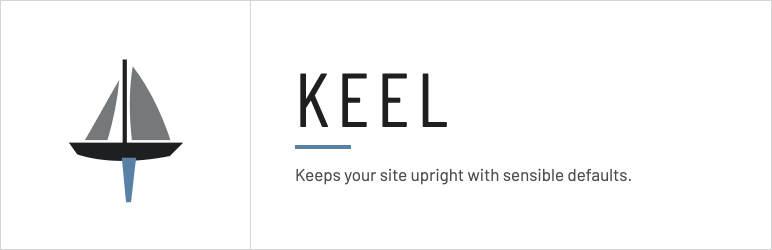
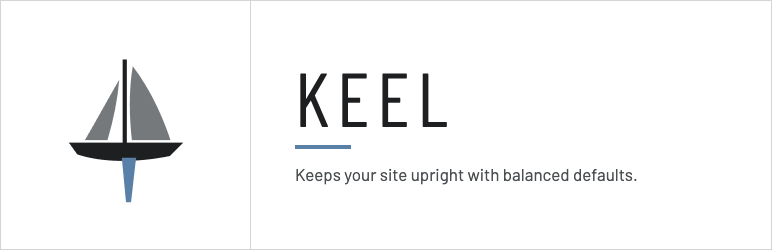
brand: say "balanced defaults" in the tagline (#247)
Both lines the brand package names now use "balanced" where they said
"sensible": the banner's "Keeps your site upright with balanced
defaults." and the settings screen's "Balanced defaults for steady
sites." The settings screen's introduction echoes the tagline and
changes with it.

The banners have no layered source, so the old line was covered on the
existing PNGs and the new one set over it in the same face, size and
colour. Nothing outside the tagline changed.

Changed region(s): [[0.6528, 0.672, 0.8394, 0.728], [0.5285, 0.7, 0.5596, 0.728]]

diff --git a/includes/settings-page.php b/includes/settings-page.php
@@ -836,7 +836,7 @@ function keel_defaults_render_settings_page() {
 			</span>
 			<div>
 				<h1 style="margin:0;padding:0;line-height:1.2;"><?php esc_html_e( 'Keel', 'keel-defaults' ); ?></h1>
-				<p class="description" style="font-size:14px;margin:2px 0 0;"><?php esc_html_e( 'Sensible defaults for steady sites.', 'keel-defaults' ); ?></p>
+				<p class="description" style="font-size:14px;margin:2px 0 0;"><?php esc_html_e( 'Balanced defaults for steady sites.', 'keel-defaults' ); ?></p>
 			</div>
 		</div>
 		<?php
@@ -848,7 +848,7 @@ function keel_defaults_render_settings_page() {
 		 */
 		?>
 		<hr class="wp-header-end">
-		<p><?php esc_html_e( 'Keel sets a sound baseline for your site — sensible defaults for security, updates, privacy, the admin experience, and performance. Every option below is one deliberate default you can see and switch off. Nothing runs that isn\'t listed here, and anything you leave unchecked keeps WordPress exactly as it ships.', 'keel-defaults' ); ?></p>
+		<p><?php esc_html_e( 'Keel sets a sound baseline for your site — balanced defaults for security, updates, privacy, the admin experience, and performance. Every option below is one deliberate default you can see and switch off. Nothing runs that isn\'t listed here, and anything you leave unchecked keeps WordPress exactly as it ships.', 'keel-defaults' ); ?></p>
 
 		<form method="post" action="options.php">
 			<?php settings_fields( 'keel_settings_group' ); ?>

diff --git a/.wordpress-org/brand/README.md b/.wordpress-org/brand/README.md
@@ -1,8 +1,8 @@
 # Keel — brand package
 
 Mark: a racing yacht under sail, one fin keel, drawn on a 200×200 grid.
-Tagline: **Keeps your site upright with sensible defaults.**
-(Short alternate: Sensible defaults for steady sites.)
+Tagline: **Keeps your site upright with balanced defaults.**
+(Short alternate: Balanced defaults for steady sites.)
 
 ## Colours
 
@@ -31,3 +31,11 @@ Barlow Condensed, uppercase, ~0.10em tracking for the name. Barlow regular for t
 - Clear space: one mast-width (5 grid units ≈ 2.5% of the mark) on all sides.
 - Never recolour the keel to anything but the steel or the ground colour; it is the namesake.
 - Do not add outlines, gradients or shadows.
+
+## Changing the banner text
+
+The banners have no layered source. The 2026-10-13 tagline change was made by
+covering the old line on the existing PNG and setting the new one over it in
+Barlow regular, colour `#4a4e51`: 34px on the 1544×500 banner and 17px on the
+772×250 one, left-aligned with the rule under the name. Everything outside the
+tagline is unchanged pixel for pixel.
